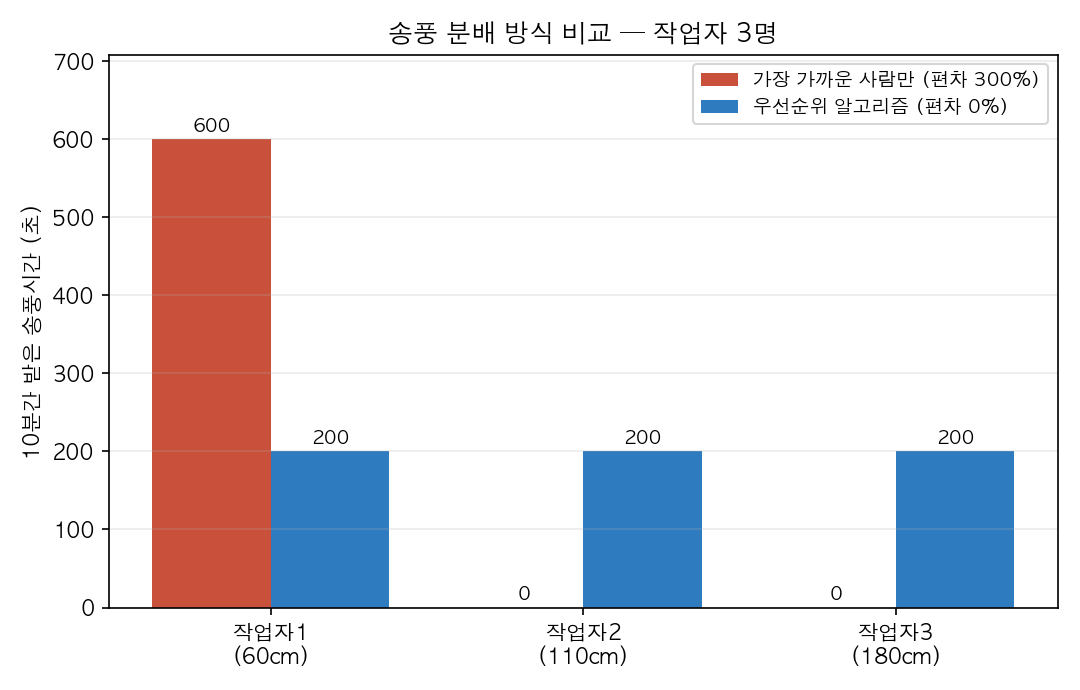
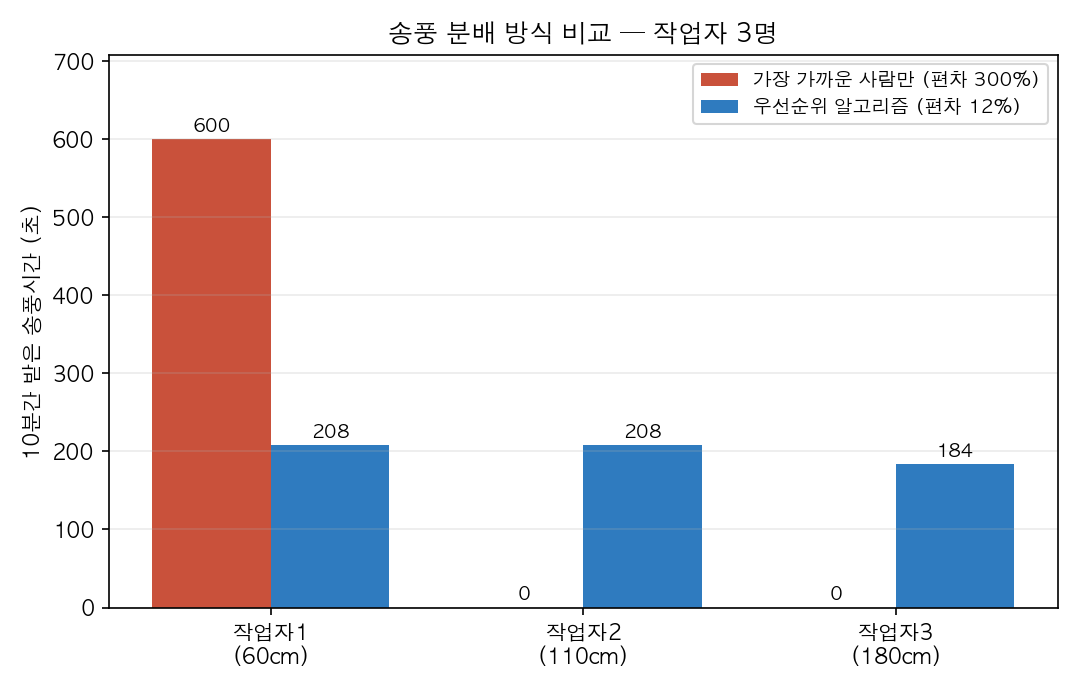
우선순위에 효율성(캐리지 이동) 반영 + 현실 시나리오 검증 추가
- 거리 기준을 '캐리지↔작업자 레일상 거리(이동 최소)'로 명확화 — 효율 목적
- 유사 임계값(cooled_similar_s/wait_similar_s) 2 → 20 (공정성↔효율 다이얼)
  : 캐리지 이동 약 18%↓, 5명까지 공정성 편차 20% 목표 이내 유지
- scripts/scenario_sim.py: 이동+입출입 현실 시나리오에서 3전략(단순최근접/
  라운드로빈/우리) 비교, 공정성·캐리지이동·최대대기 3지표 + 그래프(시드 20개 평균)
  : 단순최근접 공정성 251%·최대방치 18분 → 우리 11.7%·라운드로빈 대비 이동 18%↓
- docs/scenario_comparison.png: 현실 시나리오 비교 그래프

diff --git a/scripts/scenario_sim.py b/scripts/scenario_sim.py
@@ -1,0 +1,181 @@
+"""현실 시나리오 기반 송풍 분배 전략 비교 (통합부 / 김선형)
+
+작업자 4명이 레일을 따라 서로 다른 위치에서 일하며 매초 조금씩 이동하고,
+가끔 자리를 비웠다 복귀한다(휴식·자재 이동). 이 현실적 상황에서 세 전략을 비교:
+
+  (1) 단순 최근접  : 매번 캐리지에서 가장 가까운 사람 (분배 개념 없음)
+  (2) 라운드로빈   : 정해진 순서대로 공평하게 돌림 (거리 완전 무시)
+  (3) 우선순위     : 누적 송풍 적은 사람 우선 + 비슷하면 가까운 사람 (우리 방식)
+
+세 지표로 평가(모두 "낮을수록 좋음"):
+  - 공정성(편차%)     : 재실(在室)시간 대비 송풍시간 비율의 편차 → 0에 가까울수록 공정
+  - 캐리지 이동거리(mm): 캐리지가 레일을 왕복한 총 거리 → 작을수록 효율(모터부하·전력·소음↓)
+  - 최대 대기시간(s)   : 자리에 있는데 송풍 못 받고 가장 오래 기다린 시간
+
+난수 시드 여러 개로 반복해 평균±표준편차로 집계(특정 케이스 편향 방지).
+
+실행:  python3 scripts/scenario_sim.py
+"""
+
+from __future__ import annotations
+
+import os
+import random
+import statistics
+import sys
+
+sys.path.insert(0, os.path.join(os.path.dirname(__file__), "..", "src", "control"))
+from priority import Worker, pick_target
+
+BASE_X = [100, 300, 500, 700]   # 레일 위 작업자 기본 위치(mm, 800mm 레일)
+RAIL_START = 400.0              # 캐리지 초기 위치(레일 중앙)
+
+
+def run(strategy, total_s=1200, min_dwell_s=8, seed=0):
+    rng = random.Random(seed)
+    n = len(BASE_X)
+    workers = [Worker(wid=i) for i in range(n)]
+    rail_x = [float(BASE_X[i]) for i in range(n)]
+    absent_left = [0] * n
+    present_s = [0] * n
+    max_wait = [0] * n
+
+    carriage = RAIL_START
+    travel = 0.0
+    current = None
+    dwell_left = 0
+    last_id = None
+
+    for t in range(total_s):
+        # 1) 이동 + 입출입
+        for i, w in enumerate(workers):
+            if absent_left[i] > 0:
+                absent_left[i] -= 1
+                w.detected = absent_left[i] == 0
+            elif rng.random() < 0.0015:
+                absent_left[i] = rng.randint(20, 80)
+                w.detected = False
+            rail_x[i] = max(50.0, min(750.0,
+                        rail_x[i] + rng.gauss(0, 15) + 0.05 * (BASE_X[i] - rail_x[i])))
+
+        # 2) 대상 선정 (유지시간 끝났거나 대상이 사라지면 재선정)
+        if current is None or dwell_left <= 0 or not current.detected:
+            cands = [w for w in workers if w.detected]
+            if not cands:
+                target = None
+            elif strategy == "단순 최근접":
+                target = min(cands, key=lambda w: abs(rail_x[w.wid] - carriage))
+            elif strategy == "라운드로빈":
+                start = (last_id + 1) if last_id is not None else 0
+                target = next((workers[(start + k) % n] for k in range(n)
+                               if workers[(start + k) % n].detected), None)
+            else:  # 우선순위(우리): 거리 = 캐리지에서의 레일상 거리(이동 최소)
+                for w in workers:
+                    w.distance_cm = abs(rail_x[w.wid] - carriage)
+                target = pick_target(workers, t)
+
+            if target is not current:
+                if target is not None:
+                    travel += abs(rail_x[target.wid] - carriage)
+                    carriage = rail_x[target.wid]
+                    last_id = target.wid
+                current = target
+                dwell_left = min_dwell_s
+        else:
+            target = current
+
+        # 3) 송풍/대기/재실 누적, 캐리지는 대상 따라 미세 추종
+        for w in workers:
+            if w.detected:
+                present_s[w.wid] += 1
+            if w is target and target is not None:
+                w.cooled_total_s += 1
+                w.wait_s = 0
+            elif w.detected:
+                w.wait_s += 1
+                max_wait[w.wid] = max(max_wait[w.wid], w.wait_s)
+
+        if target is not None:
+            carriage = rail_x[target.wid]
+            dwell_left -= 1
+
+    cov = [workers[i].cooled_total_s / present_s[i] if present_s[i] else 0
+           for i in range(n)]
+    mean_cov = statistics.mean(cov)
+    fairness_pct = (max(cov) - min(cov)) / mean_cov * 100 if mean_cov else 0.0
+    return {"fairness_pct": fairness_pct, "travel_mm": travel, "max_wait_s": max(max_wait)}
+
+
+STRATEGIES = ["단순 최근접", "라운드로빈", "우선순위(우리)"]
+
+
+def main(total_s=1200, min_dwell_s=8, n_seeds=20):
+    print(f"현실 시나리오: 작업자 4명, 이동+입출입, {total_s}초, 시드 {n_seeds}개 평균\n")
+    agg = {}
+    for name in STRATEGIES:
+        runs = [run(name, total_s, min_dwell_s, seed=s) for s in range(n_seeds)]
+        agg[name] = {k: (statistics.mean(r[k] for r in runs),
+                         statistics.pstdev(r[k] for r in runs))
+                     for k in ("fairness_pct", "travel_mm", "max_wait_s")}
+
+    print(f"{'전략':<16}| {'공정성 편차%':>11} | {'캐리지 이동(mm)':>14} | {'최대 대기(s)':>11}")
+    print("-" * 64)
+    for name, m in agg.items():
+        print(f"{name:<15} | {m['fairness_pct'][0]:>7.1f} ±{m['fairness_pct'][1]:>3.1f} | "
+              f"{m['travel_mm'][0]:>9.0f} ±{m['travel_mm'][1]:>4.0f} | "
+              f"{m['max_wait_s'][0]:>6.0f} ±{m['max_wait_s'][1]:>3.0f}")
+    print("-" * 64)
+    print("단순 최근접: 이동은 적지만 가까운 사람만 지켜 공정성·대기 붕괴(사실상 탈락).")
+    print("우리 방식: 라운드로빈 수준 공정성을 유지하며 캐리지 이동을 크게 줄임(효율).")
+
+    _plot(agg, total_s, n_seeds)
+    return agg
+
+
+def _plot(agg, total_s, n_seeds):
+    import matplotlib
+    matplotlib.use("Agg")
+    import matplotlib.pyplot as plt
+    plt.rcParams["font.family"] = "AppleGothic"
+    plt.rcParams["axes.unicode_minus"] = False
+
+    names = list(agg.keys())
+    colors = ["#c9513b", "#8a8f99", "#2f7bbf"]  # 최근접=빨강, 라운드로빈=회색, 우리=파랑
+    panels = [
+        ("fairness_pct", "공정성 — 송풍시간 편차 (%)", "낮을수록 공정", 20),
+        ("travel_mm", "효율 — 캐리지 이동거리 (mm)", "낮을수록 효율적", None),
+        ("max_wait_s", "최대 대기시간 (초)", "낮을수록 덜 방치", None),
+    ]
+
+    fig, axes = plt.subplots(1, 3, figsize=(14.5, 4.9), dpi=150)
+    for ax, (key, title, sub, target) in zip(axes, panels):
+        means = [agg[n][key][0] for n in names]
+        stds = [agg[n][key][1] for n in names]
+        bars = ax.bar(names, means, yerr=stds, capsize=5, color=colors)
+        ax.set_title(f"{title}\n({sub})", fontsize=11)
+        ax.bar_label(bars, fmt="%.0f", padding=3, fontsize=10)
+        ax.set_ylim(0, max(means) * 1.25)
+        ax.grid(axis="y", alpha=0.25)
+        ax.tick_params(axis="x", labelsize=9)
+        if target is not None:   # 공정성 목표선
+            ax.axhline(target, ls="--", lw=1.2, color="#444")
+            ax.text(len(names) - 0.4, target, f" 목표 {target}%", va="bottom",
+                    ha="right", fontsize=8, color="#444")
+
+    fig.suptitle(
+        f"현실 시나리오 송풍 분배 비교 — 작업자 4명, 이동+입출입 "
+        f"({total_s // 60}분, 시드 {n_seeds}개 평균±표준편차)",
+        fontsize=12,
+    )
+    fig.tight_layout(rect=[0, 0, 1, 0.95])
+
+    repo_root = os.path.abspath(os.path.join(os.path.dirname(__file__), ".."))
+    docs_dir = os.path.join(repo_root, "docs")
+    os.makedirs(docs_dir, exist_ok=True)
+    out = os.path.join(docs_dir, "scenario_comparison.png")
+    fig.savefig(out)
+    print(f"\n그래프 저장: {out}")
+
+
+if __name__ == "__main__":
+    main()

diff --git a/src/control/priority.py b/src/control/priority.py
@@ -3,14 +3,21 @@
 여러 명이 동시에 검출됐을 때 "누구에게 먼저 송풍할지"를 정한다.
 단계식(lexicographic) 규칙 — 앞 기준이 비슷하면(임계값 이내) 다음 기준으로:
 
-    1순위  누적 송풍시간  (적게 받은 사람 먼저)   → 공정성
-    2순위  대기 시간      (오래 기다린 사람 먼저)  → 공정성
-    3순위  팬-작업자 거리 (가까운 사람 먼저)      → 효율·동점 처리
+    1순위  누적 송풍시간  (적게 받은 사람 먼저)       → 공정성
+    2순위  대기 시간      (오래 기다린 사람 먼저)      → 공정성
+    3순위  캐리지-작업자 거리 (가까운 사람 먼저)       → 효율(캐리지 이동 최소)
+
+유사 임계값(cooled_similar_s / wait_similar_s)이 공정성↔효율성 다이얼이다.
+값이 클수록 "비슷하게 받았으면 가까운 사람 먼저"가 자주 발동해 캐리지 이동이
+줄고(효율↑), 작을수록 송풍시간 균등에 민감해진다(공정성↑). 기본 20s는 시뮬레이션
+균형점(캐리지 이동 약 18%↓, 5명까지 공정성 편차 20% 목표 이내). → config/coordinate.yaml
 
 추가 규칙:
     - Cooldown      : 방금 송풍받은 대상은 일정 시간 후보에서 제외 → 바로 재선정 방지
     - 최소 유지시간 : 한 대상에게 최소 T초 송풍한 뒤 전환 → 캐리지 잦은 왕복 방지
 
+주의: distance_cm은 '팬 세기용 깊이'가 아니라 '캐리지에서 작업자까지 레일상 거리'.
+      팬 세기(거리→PWM)는 별도 깊이 값으로 fan_control에서 처리한다.
 """
 
 from __future__ import annotations
@@ -23,7 +30,7 @@ class Worker:
     """추적 중인 작업자 1명 (ID는 인식부 ByteTrack에서 부여)."""
 
     wid: int
-    distance_cm: float = 0.0     # 팬-작업자 거리 (카메라 좌표 또는 초음파)
+    distance_cm: float = 0.0     # 캐리지↔작업자 레일상 거리 (가까울수록 이동 적음)
     cooled_total_s: float = 0.0  # 지금까지 누적 송풍받은 시간
     wait_s: float = 0.0          # 마지막 송풍 이후 대기 시간
     detected: bool = True        # 현재 프레임에 검출됐는지
@@ -34,8 +41,8 @@ def pick_target(
     workers: list[Worker],
     now: float,
     *,
-    cooled_similar_s: float = 2.0,
-    wait_similar_s: float = 2.0,
+    cooled_similar_s: float = 20.0,
+    wait_similar_s: float = 20.0,
 ) -> Worker | None:
     """현재 송풍 대상 1명을 선정한다. 후보가 없으면 None.
 
@@ -60,5 +67,5 @@ def pick_target(
     if len(tier2) == 1:
         return tier2[0]
 
-    # 4) 3순위(또 동점): 거리 최소
+    # 4) 3순위(또 동점): 캐리지에서 가까운 사람 → 캐리지 이동 최소(효율)
     return min(tier2, key=lambda w: w.distance_cm)
